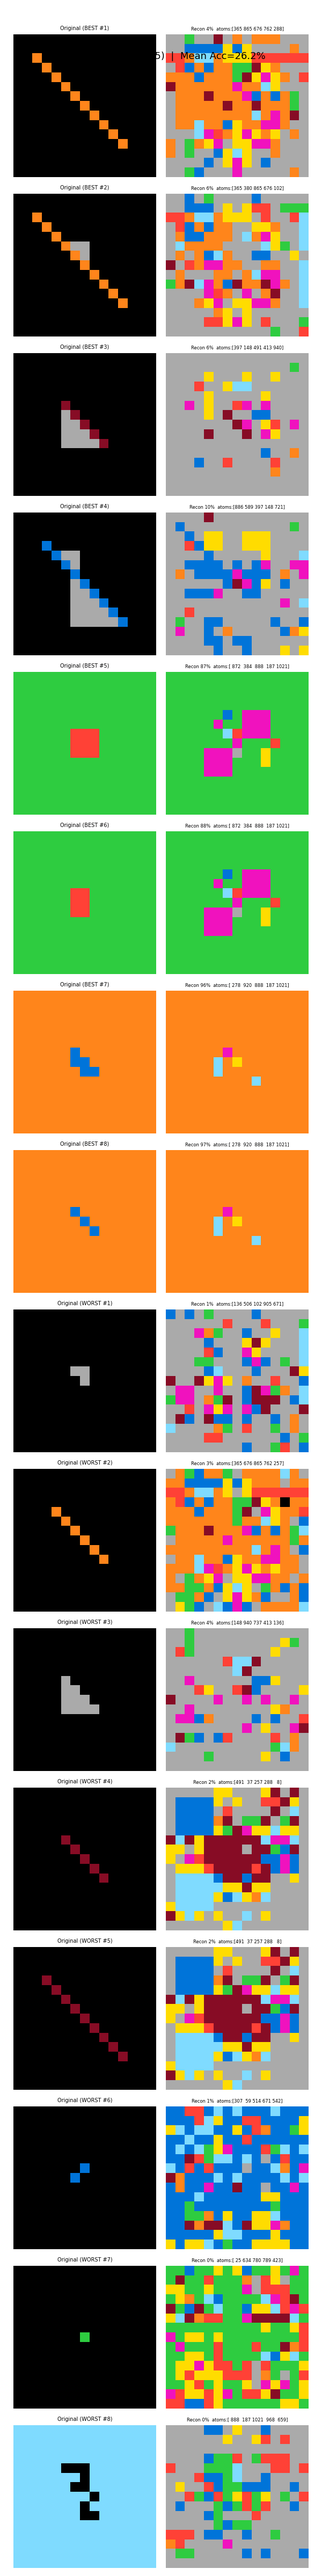
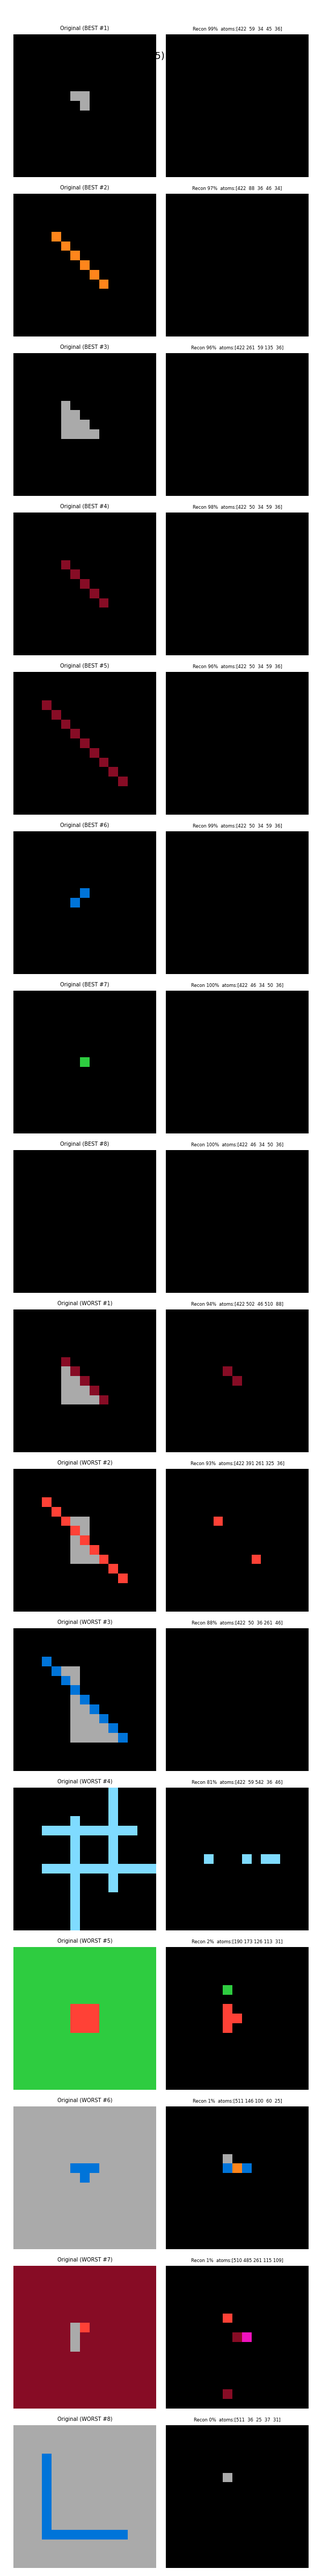
background exlusion

diff --git a/tools/analyze_arc_basis.py b/tools/analyze_arc_basis.py
@@ -25,19 +25,27 @@ cmap = ListedColormap(ARC_COLORS)
 
 def build_feature_matrix(tensors):
     """
-    Convert integer grids [N, 15, 15] to one-hot color matrix [N, 2250].
-    2250 = 15 * 15 * 10 (10 color classes per pixel, NO position channels).
-    Black (color=0) is included as its own channel — background is a signal too.
+    Convert integer grids [N, 15, 15] to foreground-only color matrix [N, 2025].
+    2025 = 15 * 15 * 9  (9 foreground colors, color 0 / black EXCLUDED).
+
+    Why exclude color 0?
+      ARC objects are padded to 15×15. Most pixels are black background.
+      If we include color 0, NMF collapses to 'mostly-black' atoms because
+      that's the dominant signal. Excluding it forces atoms to represent
+      real foreground structure instead.
+
+    Reconstruction: pixels with no foreground channel activation → predicted black.
     """
     n = tensors.shape[0]
-    X = np.zeros((n, 2250), dtype=np.float32)
+    X = np.zeros((n, 2025), dtype=np.float32)  # 15*15*9
     for i in range(n):
         grid = tensors[i].astype(int)  # [15, 15]
         for r in range(15):
             for c in range(15):
                 color = grid[r, c]
-                # One-hot: pixel (r,c) with color k → channel (r*15+c)*10 + k
-                X[i, (r * 15 + c) * 10 + color] = 1.0
+                if color > 0:  # Skip background (color 0)
+                    # Map color 1-9 to channels 0-8
+                    X[i, (r * 15 + c) * 9 + (color - 1)] = 1.0
     return X
 
 def analyze_basis(library_path, n_components=1024):
@@ -51,31 +59,32 @@ def analyze_basis(library_path, n_components=1024):
     print(f"Building one-hot color feature matrix [{n_total} × 2250]...")
     X = build_feature_matrix(tensors)
 
-    # Remove all-black rows (empty objects with no pixels)
+    # Remove all-black rows (objects with no foreground pixels at all)
     row_sums = X.sum(axis=1)
     valid = row_sums > 0
     X = X[valid]
     tensors = tensors[valid]
     print(f"  After removing empty objects: {X.shape[0]} samples")
+    print(f"  Feature dim: {X.shape[1]} (15×15×9, background excluded)")
 
-    # L1-normalize each row so large objects don't dominate atom discovery
+    # L1-normalize each row: foreground pixel count varies per object
     row_norms = X.sum(axis=1, keepdims=True)
     X_norm = X / (row_norms + 1e-8)
 
     # ── Run NMF ──
     print(f"Running NMF ({n_components} components) on {X_norm.shape[0]} objects...")
-    print(f"  Feature space: {X_norm.shape[1]} dims (15×15×10 one-hot color)")
-    print(f"  This may take 5–15 minutes. Use Ctrl+C to stop early if loss plateaus.")
+    print(f"  Feature space: {X_norm.shape[1]} dims (15×15×9, foreground colors only)")
+    print(f"  This may take 5–15 minutes. Error should drop well below 5.0 now.")
 
     nmf = NMF(
         n_components=n_components,
         init='nndsvda',     # Better init than 'random' — uses SVD approximation
         solver='mu',        # Multiplicative update (better for sparse data)
         beta_loss='kullback-leibler',   # KL divergence better for one-hot data than Frobenius
-        max_iter=2000,
+        max_iter=500,       # 500 is enough — error plateaus after ~400 on this dataset
         random_state=42,
         verbose=1,
-        tol=1e-4,
+        tol=1e-3,           # Stop early if improvement drops below this threshold
     )
     W = nmf.fit_transform(X_norm)   # [N, K] — object-to-atom weights
     H = nmf.components_             # [K, 2250] — the atoms
@@ -93,27 +102,32 @@ def analyze_basis(library_path, n_components=1024):
 
     # ── Quick reconstruction audit ──
     print("\nRunning quick reconstruction audit (K=5 nearest atoms)...")
-    H_tensor = torch.from_numpy(H).float()
+    H_tensor = torch.from_numpy(H).float()   # [1024, 2025]
     X_tensor = torch.from_numpy(X_norm).float()
 
     accs = []
     for i in range(min(1000, X_tensor.shape[0])):
-        obj  = X_tensor[i]                              # [2250]
-        dist = ((H_tensor - obj.unsqueeze(0)) ** 2).sum(dim=1)   # [K]
+        obj  = X_tensor[i]                              # [2025]
+        dist = ((H_tensor - obj.unsqueeze(0)) ** 2).sum(dim=1)
         top5 = dist.topk(5, largest=False).indices
 
-        # Reconstruct: weighted sum of K nearest atoms
         dists_k = dist[top5]
         weights  = 1.0 / (dists_k + 1e-8)
         weights  = weights / weights.sum()
-        recon    = (H_tensor[top5] * weights.unsqueeze(1)).sum(dim=0)   # [2250]
+        recon    = (H_tensor[top5] * weights.unsqueeze(1)).sum(dim=0)   # [2025]
 
-        # Pixel accuracy: compare argmax color per pixel
-        orig_grid  = recon.view(15, 15, 10).argmax(dim=-1)   # use obj not recon for orig
-        obj_grid   = obj.view(15, 15, 10).argmax(dim=-1)
-        recon_grid = recon.view(15, 15, 10).argmax(dim=-1)
+        # Pixel accuracy: recon is [2025] = 15×15×9 (foreground channels)
+        # Argmax over 9 channels + 1 implicit background gives 10-way prediction
+        recon_9ch  = recon.view(15, 15, 9)                # [15, 15, 9]
+        # Add a background channel (all zeros → background wins if no foreground)
+        bg_channel = torch.zeros(15, 15, 1)               # implicit black
+        recon_10ch = torch.cat([bg_channel, recon_9ch], dim=-1)  # [15, 15, 10]
+        recon_grid = recon_10ch.argmax(dim=-1)            # [15, 15]  colors 0-9
 
-        acc = (recon_grid == obj_grid).float().mean().item() * 100
+        # Original grid from tensors
+        orig_idx = i % tensors.shape[0]
+        orig_grid = torch.from_numpy(tensors[orig_idx].astype(np.int64))
+        acc = (recon_grid == orig_grid).float().mean().item() * 100
         accs.append(acc)
 
     mean_acc = np.mean(accs)
@@ -128,16 +142,16 @@ def analyze_basis(library_path, n_components=1024):
     # ── Save ──
     os.makedirs('arc_data', exist_ok=True)
     torch.save({
-        'basis':        torch.from_numpy(H).float(),    # [1024, 2250]
+        'basis':        torch.from_numpy(H).float(),    # [1024, 2025]
         'weights':      torch.from_numpy(W).float(),    # [N, 1024]
         'n_components': n_components,
-        'feature_dim':  2250,                           # 15×15×10
-        'encoding':     'one_hot_color_only',           # no position channels
+        'feature_dim':  2025,                           # 15×15×9 (foreground only)
+        'encoding':     'one_hot_foreground_only',      # color 0 excluded
         'n_objects':    X_norm.shape[0],
         'recon_err':    float(recon_err),
     }, 'arc_data/arc_basis_nmf_1024.pt')
     print(f"\nSaved → arc_data/arc_basis_nmf_1024.pt")
-    print(f"  Basis shape: {H.shape}  (n_components × 2250)")
+    print(f"  Basis shape: {H.shape}  (n_components × 2025)")
 
     # ── Visualize 6 sample atoms ──
     print("Generating atom preview...")
@@ -150,10 +164,12 @@ def analyze_basis(library_path, n_components=1024):
 
     for i, idx in enumerate(sample_ids):
         ax = axes[i // 3, i % 3]
-        atom   = H[idx].reshape(15, 15, 10)   # [15, 15, 10]
-        grid   = np.argmax(atom, axis=-1)      # [15, 15]
-        intensity = np.max(atom, axis=-1)
-        grid[intensity < 0.1] = 0              # mask weak activations
+        atom = H[idx].reshape(15, 15, 9)    # [15, 15, 9] foreground channels
+        # Add implicit background channel so argmax gives colors 0-9
+        atom_10ch = np.concatenate([np.zeros((15, 15, 1)), atom], axis=-1)
+        grid      = np.argmax(atom_10ch, axis=-1)   # [15, 15]
+        intensity = np.max(atom_10ch, axis=-1)
+        grid[intensity < 0.1] = 0   # mask weak activations → black
 
         ax.imshow(grid, cmap=cmap, vmin=0, vmax=9, interpolation='nearest')
         ax.set_title(f"Atom #{idx}", fontsize=9)
